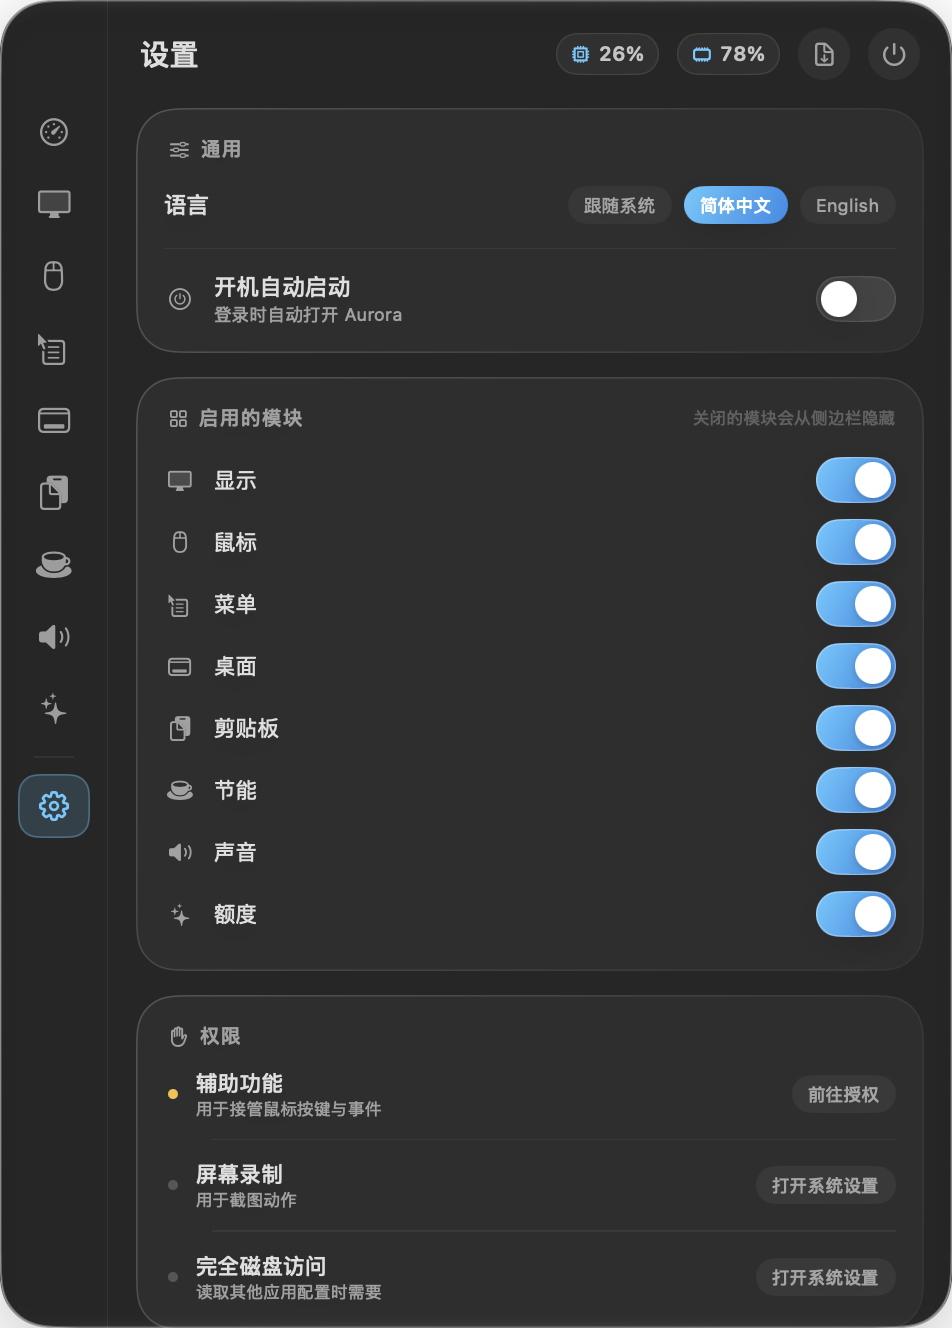
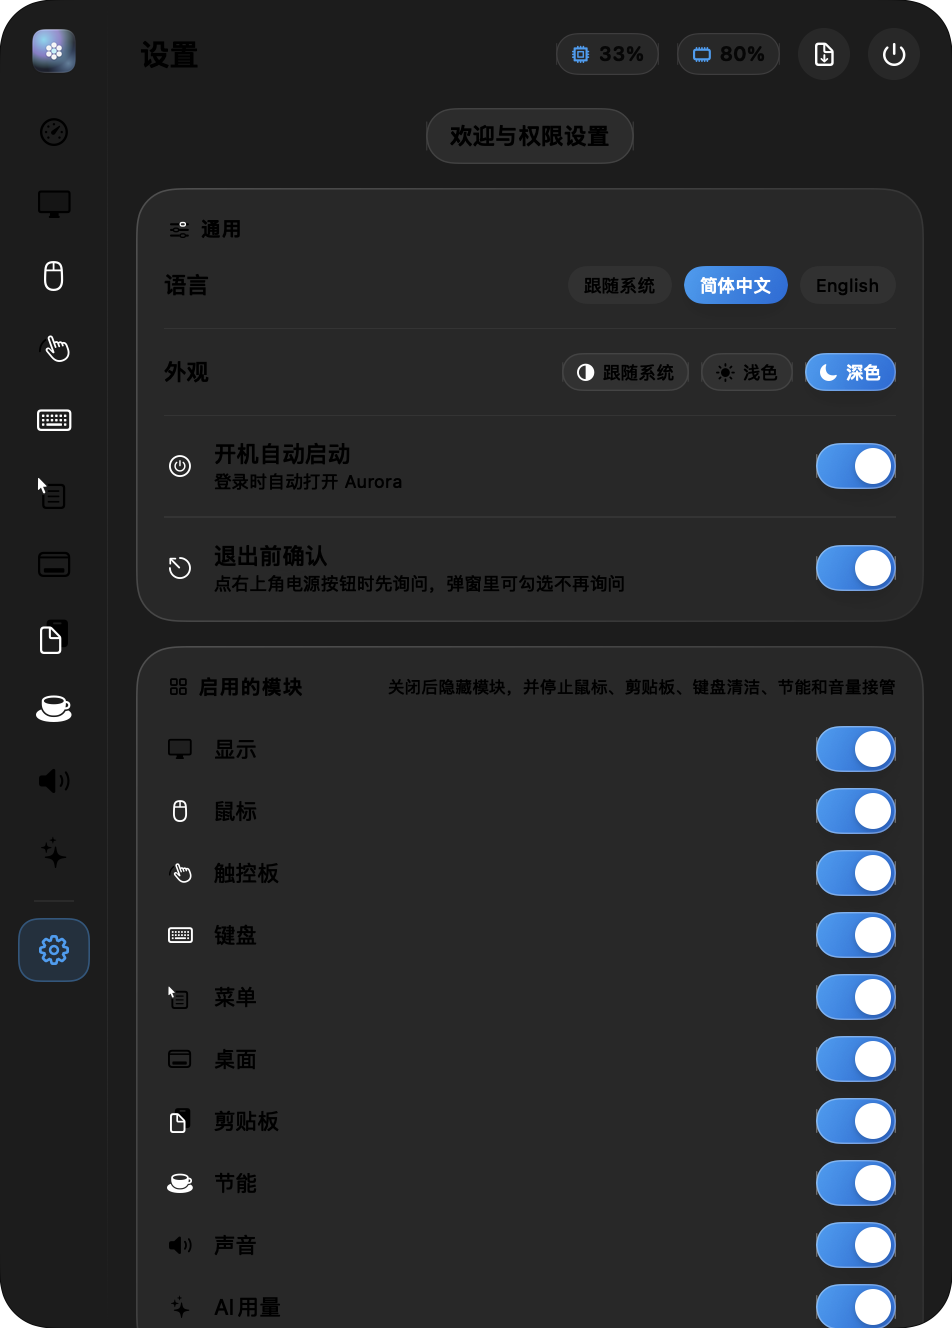
fix: 兼容 macOS 26 SDK 构建
- NSGlassEffectView.effectIsInteractive 是 macOS 27 SDK 新增属性，改用运行时探测，
  避免在 Xcode 26 环境下编译失败（CI 用 macOS 26 镜像）
- 更新器：新增 --update-script / --update-test --download 自检入口，选过「稍后」的版本不再反复打扰
- 文档补充更新自检命令，设置页截图同步

diff --git a/Sources/Aurora/Core/UpdateService.swift b/Sources/Aurora/Core/UpdateService.swift
@@ -84,6 +84,8 @@ final class UpdateService: ObservableObject {
     private var task: Task<Void, Never>?
     /// 解包好的新版本 .app
     private var stagedApp: URL?
+    /// 用户点过「稍后」的版本：自动检查不再重复打扰，手动检查会重置
+    private var declinedVersion: String?
 
     init() {
         currentVersion = (Bundle.main.infoDictionary?["CFBundleShortVersionString"] as? String) ?? "1.0.0"
@@ -120,6 +122,7 @@ final class UpdateService: ObservableObject {
 
     func check(manual: Bool = false) {
         guard task == nil, !phase.isBusy else { return }
+        if manual { declinedVersion = nil }
         phase = .checking
         task = Task { [weak self] in
             guard let self else { return }
@@ -151,6 +154,7 @@ final class UpdateService: ObservableObject {
 
     /// 用户点「立即更新」
     func install(_ release: AuroraRelease) {
+        declinedVersion = nil
         guard let app = stagedApp, FileManager.default.fileExists(atPath: app.path) else {
             if let asset = release.asset {
                 // 还没下载（用户关了自动更新），先下载再问
@@ -217,7 +221,7 @@ final class UpdateService: ObservableObject {
         _ = Self.shell("/usr/bin/xattr", ["-dr", "com.apple.quarantine", app.path])
 
         phase = .ready(release)
-        if !silent {
+        if !silent, declinedVersion != release.version {
             promptInstall(release)
         }
         _ = askAfter
@@ -245,6 +249,8 @@ final class UpdateService: ObservableObject {
         NSApp.activate(ignoringOtherApps: true)
         if alert.runModal() == .alertFirstButtonReturn, let app = stagedApp {
             replaceAndRelaunch(with: app)
+        } else {
+            declinedVersion = release.version
         }
     }
 
@@ -292,10 +298,10 @@ final class UpdateService: ObservableObject {
     }
 
     /// 等 Aurora 退出 → 备份旧包 → ditto 新包 → 清隔离属性 → 重新打开
-    static func installScript(target: URL, staged: URL) -> String {
+    nonisolated static func installScript(target: URL, staged: URL, pid: Int32? = nil) -> String {
         let app = target.path
         let src = staged.path
-        let pid = ProcessInfo.processInfo.processIdentifier
+        let pid = pid ?? ProcessInfo.processInfo.processIdentifier
         return """
         #!/bin/sh
         LOG=/tmp/aurora-update.log

diff --git a/Sources/Aurora/main.swift b/Sources/Aurora/main.swift
@@ -22,6 +22,23 @@ if CommandLine.arguments.contains("--permission-probe") {
 // Swift 包的 main 入口：以 accessory 模式常驻菜单栏
 var auroraDelegate: AppDelegate?
 
+if let index = CommandLine.arguments.firstIndex(of: "--update-script") {
+    // 开发用：打印替换脚本，便于在临时目录里验证，不碰真实安装
+    let args = CommandLine.arguments
+    guard index + 3 < args.count else {
+        print("用法：Aurora --update-script <target.app> <staged.app> <pid>")
+        exit(1)
+    }
+    let pid = Int32(args[index + 3]) ?? 1
+    let script = UpdateService.installScript(
+        target: URL(fileURLWithPath: args[index + 1]),
+        staged: URL(fileURLWithPath: args[index + 2]),
+        pid: pid
+    )
+    print(script)
+    exit(0)
+}
+
 if CommandLine.arguments.contains("--update-test") {
     final class Box: @unchecked Sendable {
         var done = false

diff --git a/Sources/Aurora/PanelController.swift b/Sources/Aurora/PanelController.swift
@@ -50,8 +50,9 @@ final class PanelController {
         glass.style = .regular
         glass.cornerRadius = 26
         glass.tintColor = NSColor.white.withAlphaComponent(0.03)
-        if #available(macOS 27.0, *) {
-            glass.effectIsInteractive = false
+        // macOS 27 SDK 才有 effectIsInteractive；用运行时探测，避免在旧 SDK 上编译失败
+        if glass.responds(to: Selector(("setEffectIsInteractive:"))) {
+            glass.setValue(false, forKey: "effectIsInteractive")
         }
         let bounds = NSRect(origin: .zero, size: Self.panelSize)
         glass.frame = bounds

diff --git a/README.en.md b/README.en.md
@@ -164,6 +164,7 @@ Aurora --clip-e2e                # clipboard end-to-end: dedupe, RTF on disk, im
 Aurora --keyboard-clean-test     # clean-mode interception and unlock
 Aurora --device-test             # enumerate keyboards and pointing devices
 Aurora --update-test             # read the latest GitHub release and compare versions, no download
+Aurora --update-test --download  # also download and unpack (no prompt, no install)
 ```
 
 Regression scripts live in `Tests/`: `bash Tests/Functional/run.sh`, `Tests/Panel/run.sh`, `Tests/Preferences/run.sh`, `Tests/Permissions/run.sh`.
